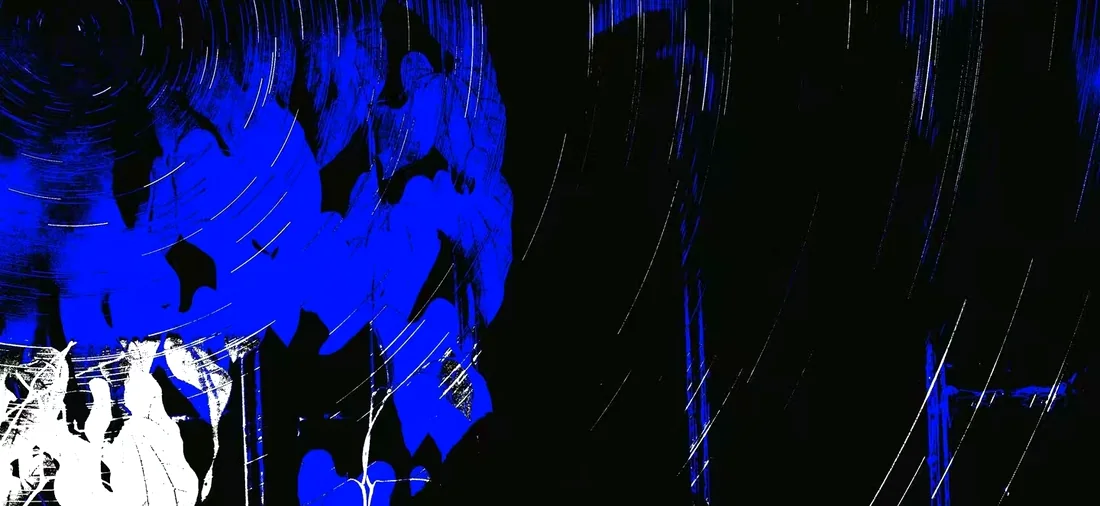
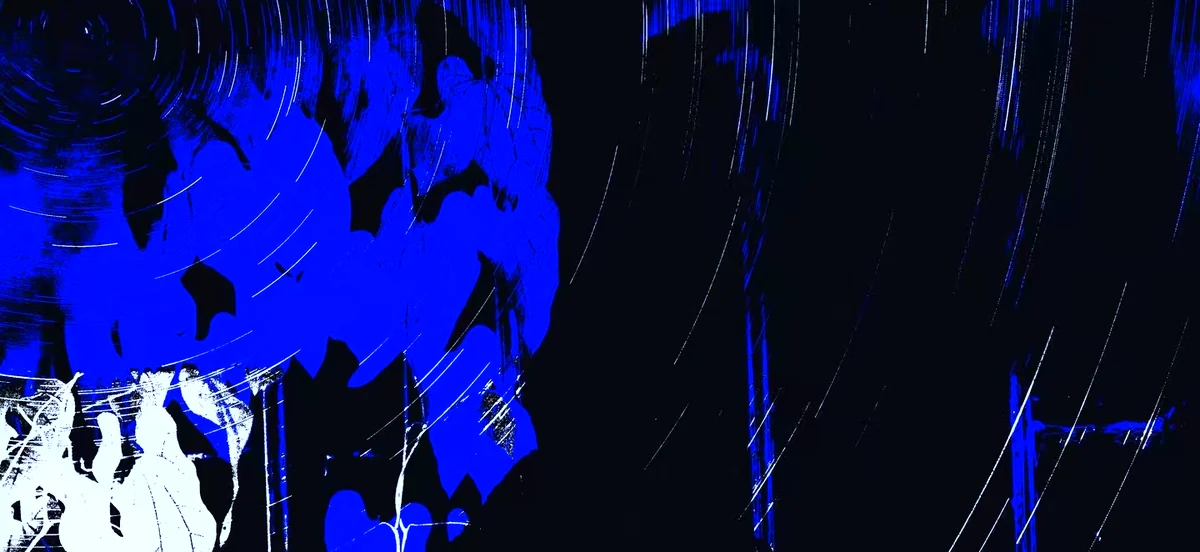
feat: 插图全面蓝色强化——蓝通道增强+冷染重绘(art1白环转冰蓝/art4人影蓝化)、提高不透明度、改 closest-side 椭圆遮罩消除矩形硬边

diff --git a/index.html b/index.html
@@ -184,31 +184,35 @@ a{color:inherit;text-decoration:none}
 .card{overflow:hidden}
 .card>.art{position:absolute;z-index:0;animation:none;pointer-events:none;
   mix-blend-mode:screen;background-repeat:no-repeat;
-  -webkit-mask-image:radial-gradient(64% 64% at 52% 48%,#000 0%,rgba(0,0,0,.92) 36%,transparent 80%);
-  mask-image:radial-gradient(64% 64% at 52% 48%,#000 0%,rgba(0,0,0,.92) 36%,transparent 80%);
-  filter:saturate(1.14) brightness(1.02)}
-.art.r{right:-14%;top:50%;transform:translateY(-50%);width:54%;height:118%;
-  background-size:cover;background-position:center 46%;opacity:.56}
+  -webkit-mask-image:radial-gradient(92% 92% at 52% 48%,#000 0%,rgba(0,0,0,.9) 54%,transparent 96%);
+  mask-image:radial-gradient(92% 92% at 52% 48%,#000 0%,rgba(0,0,0,.9) 54%,transparent 96%);
+  filter:saturate(1.3) brightness(1.06)}
+.art.r{right:0;top:50%;transform:translateY(-50%);width:60%;height:124%;
+  background-size:cover;background-position:center 46%;opacity:.64;
+  -webkit-mask-image:radial-gradient(closest-side,#000 0%,rgba(0,0,0,.85) 54%,transparent 100%);
+  mask-image:radial-gradient(closest-side,#000 0%,rgba(0,0,0,.85) 54%,transparent 100%)}
 .art.r.lf{background-position:left 44%}
-.art.b{left:-8%;right:-8%;bottom:-24%;height:60%;
-  background-size:cover;background-position:center 40%;opacity:.20;
-  -webkit-mask-image:radial-gradient(108% 100% at 50% 106%,#000 6%,rgba(0,0,0,.70) 44%,transparent 86%);
-  mask-image:radial-gradient(108% 100% at 50% 106%,#000 6%,rgba(0,0,0,.70) 44%,transparent 86%)}
-.art.faint{opacity:.18}
-.art.r.axe{right:2%;width:56%;height:104%;background-position:left 58%;opacity:.42;
-  filter:brightness(1.6) saturate(1.05) contrast(1.02);
-  -webkit-mask-image:radial-gradient(70% 62% at 54% 50%,#000 16%,rgba(0,0,0,.7) 48%,transparent 86%);
-  mask-image:radial-gradient(70% 62% at 54% 50%,#000 16%,rgba(0,0,0,.7) 48%,transparent 86%)}
-.art.b.soft{opacity:.30;height:54%;bottom:-16%;background-position:center 58%;
-  -webkit-mask-image:linear-gradient(to top,#000 0%,rgba(0,0,0,.52) 34%,transparent 74%);
-  mask-image:linear-gradient(to top,#000 0%,rgba(0,0,0,.52) 34%,transparent 74%)}
+.art.b{left:-8%;right:-8%;bottom:-22%;height:58%;
+  background-size:cover;background-position:center 40%;opacity:.55;
+  filter:brightness(.76) saturate(1.42) contrast(1.06);
+  -webkit-mask-image:radial-gradient(94% 98% at 50% 102%,#000 0%,rgba(0,0,0,.78) 50%,transparent 92%);
+  mask-image:radial-gradient(94% 98% at 50% 102%,#000 0%,rgba(0,0,0,.78) 50%,transparent 92%)}
+.art.faint{opacity:.36}
+.art.r.axe{right:1%;width:60%;height:112%;background-position:left 58%;opacity:.58;
+  filter:brightness(1.9) saturate(1.22) contrast(1.05);
+  -webkit-mask-image:radial-gradient(closest-side,#000 0%,rgba(0,0,0,.82) 50%,transparent 100%);
+  mask-image:radial-gradient(closest-side,#000 0%,rgba(0,0,0,.82) 50%,transparent 100%)}
+.art.b.soft{opacity:.55;height:56%;bottom:-14%;background-position:center 58%;
+  filter:brightness(.84) saturate(1.26);
+  -webkit-mask-image:linear-gradient(to top,#000 0%,rgba(0,0,0,.72) 52%,transparent 92%);
+  mask-image:linear-gradient(to top,#000 0%,rgba(0,0,0,.72) 52%,transparent 92%)}
 
 /* 窄屏：插图挪到右下、压暗，保证正文可读 */
 @media (max-width:900px){
-  .art.r{right:-18%;top:auto;bottom:-10%;transform:none;width:74%;height:58%;
-    opacity:.24;background-position:right bottom}
-  .art.b{opacity:.24;height:44%}
-  .art.faint{opacity:.2}
+  .art.r{right:-18%;top:auto;bottom:-10%;transform:none;width:78%;height:60%;
+    opacity:.46;background-position:right bottom}
+  .art.b{opacity:.46;height:46%}
+  .art.faint{opacity:.4}
 }
 @keyframes riseIn{from{opacity:0;transform:translateY(16px)}to{opacity:1;transform:none}}
 
@@ -475,7 +479,7 @@ h2 em::after{content:'';position:absolute;left:0;right:0;bottom:.06em;height:1px
       <!-- XII 入口 -->
       <section class="panel on" data-i="0">
         <div class="card" data-rn="XII">
-          <div class="art b soft" style="background-image:url(assets/art1.webp)" aria-hidden="true"></div>
+          <div class="art b soft" style="background-image:url(assets/art1.webp);background-position:100% 100%" aria-hidden="true"></div>
           <div class="eyebrow" style="--d:0"><span class="gnum">Ω</span>入口 · GATE</div>
           <h2 class="hero">
             <span class="line"><i>能轻易失去的东西</i></span>
@@ -507,7 +511,7 @@ h2 em::after{content:'';position:absolute;left:0;right:0;bottom:.06em;height:1px
       <!-- IV 请了解我 -->
       <section class="panel" data-i="2">
         <div class="card" data-rn="IV">
-          <div class="art b" style="background-image:url(assets/art3.webp)" aria-hidden="true"></div>
+          <div class="art b" style="background-image:url(assets/art3.webp);background-position:62% 0%" aria-hidden="true"></div>
           <div class="eyebrow" style="--d:0"><span class="gnum">Β</span>请了解我 · NEXT</div>
           <h2 style="--d:80"><em>三恋</em>选手</h2>
           <p class="lead" style="--d:140">三种恋法，各自有各自的温度。想要哪一种，提前说。</p>
@@ -546,7 +550,7 @@ h2 em::after{content:'';position:absolute;left:0;right:0;bottom:.06em;height:1px
       <!-- VIII 幸识 -->
       <section class="panel" data-i="4">
         <div class="card" data-rn="VIII">
-          <div class="art r faint" style="background-image:url(assets/art2.webp)" aria-hidden="true"></div>
+          <div class="art r faint" style="background-image:url(assets/art2.webp);background-position:24% 55%" aria-hidden="true"></div>
           <div class="eyebrow" style="--d:0"><span class="gnum">Δ</span>幸识 · MEET</div>
           <div class="meet"><span>幸</span><span>识</span></div>
           <p class="poem" style="--d:400">世界很大，频率对得上的人不多。<br>你刚好转到这里，<b>就算是认识了</b>。</p>
@@ -569,7 +573,7 @@ h2 em::after{content:'';position:absolute;left:0;right:0;bottom:.06em;height:1px
       <!-- X 请靠近我 -->
       <section class="panel" data-i="5">
         <div class="card" data-rn="X">
-          <div class="art r axe" style="background-image:url(assets/art4.webp)" aria-hidden="true"></div>
+          <div class="art r axe" style="background-image:url(assets/art4.webp);background-position:26% 64%" aria-hidden="true"></div>
           <div class="eyebrow" style="--d:0"><span class="gnum">Ε</span>请靠近我 · FINALLY</div>
           <h2 style="--d:80">请 <em>靠近</em> 我</h2>
           <div class="path">
